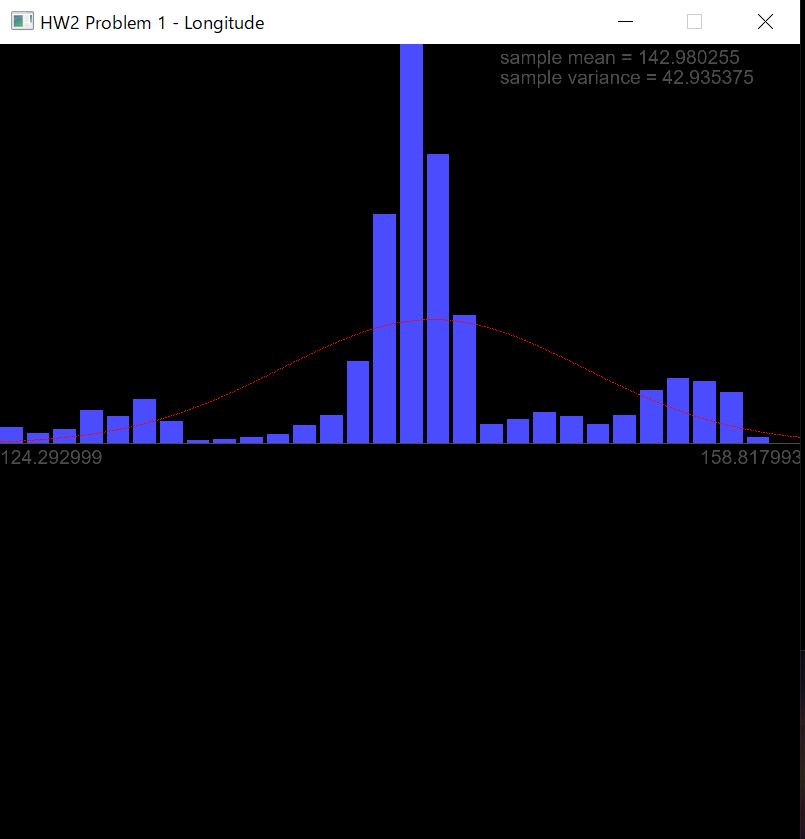
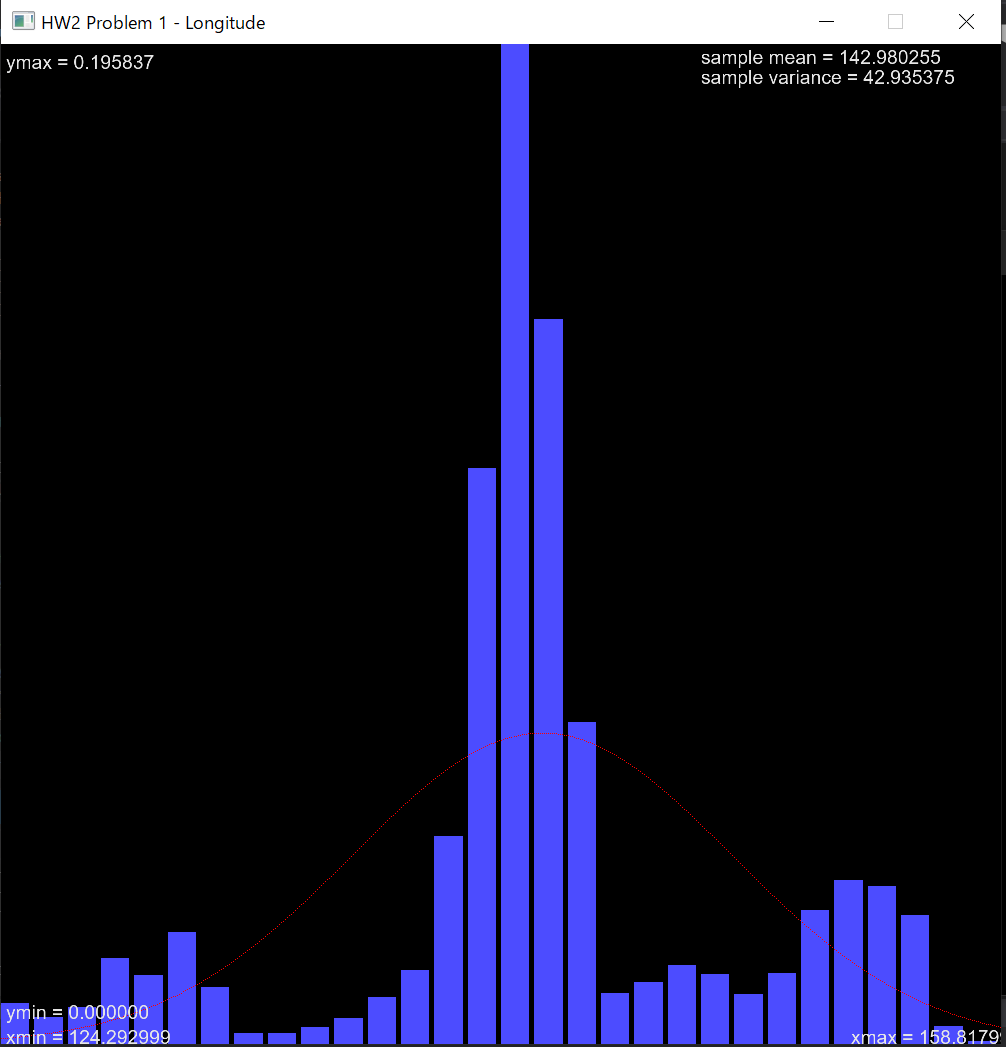
HW2 Problem 3 completed.

diff --git a/OpenGLVS/hw2_problem123.cpp b/OpenGLVS/hw2_problem123.cpp
@@ -239,7 +239,7 @@ float getBhattacharyya(vector<float> data1, vector<float> data2) {
 
 
 
-int drawHw2p1(vector<float> data, const char* title) {
+int drawHistGaussian(vector<float> data, const char* title) {
     GLFWwindow* window;
     int EXIT_STAUTS1 = glinit(window, WIDTH, HEIGHT, title);
     if (EXIT_STAUTS1 == EXIT_FAILURE) {
@@ -361,10 +361,10 @@ void getHistData(vector<float> data, int i, int j, int size,
 
 
     // define normalization range
-    float ax = -1.0f + i * 2.0f / (float)size;
-    float bx = -1.0f + (i + 1) * 2.0f / (float)size;
-    float ay = 1.0f - (j+1) * 2.0f / (float)size;
-    float by = 1.0f - j * 2.0f / (float)size;
+    float ax = -1.0f + j * 2.0f / (float)size;
+    float bx = -1.0f + (j + 1) * 2.0f / (float)size;
+    float ay = 1.0f - (i+1) * 2.0f / (float)size;
+    float by = 1.0f - i * 2.0f / (float)size;
 
     for (int i = 0; i < hist.size(); i++) {
         histBin bi = hist[i];
@@ -410,10 +410,10 @@ void getScatterData(vector<float> data1, vector<float> data2, int i, int j, int 
     ymax = *max_element(data2.begin(), data2.end());
 
     // define normalization range
-    float ax = -1.0f + i * 2.0f / (float)size;
-    float bx = -1.0f + (i + 1) * 2.0f / (float)size;
-    float ay = 1.0f - (j + 1) * 2.0f / (float)size;
-    float by = 1.0f - j * 2.0f / (float)size;
+    float ax = -1.0f + j * 2.0f / (float)size;
+    float bx = -1.0f + (j + 1) * 2.0f / (float)size;
+    float ay = 1.0f - (i + 1) * 2.0f / (float)size;
+    float by = 1.0f - i * 2.0f / (float)size;
     // cout << ax << "," << bx << "," << ay << "," << by << endl;
 
     int numPts = data1.size();
@@ -427,6 +427,61 @@ void getScatterData(vector<float> data1, vector<float> data2, int i, int j, int 
         scatData.push_back(0.0f);
     }
 }
+
+
+void getRegressionLine(vector<float> x, vector<float> y, int i, int j, int size,
+                                vector<float> &regLineData, float &c0, float &c1){
+    // get xmin, xmax, ymin, ymax
+    float xmin = *min_element(x.begin(), x.end());
+    float xmax = *max_element(x.begin(), x.end());
+    float ymin = *min_element(y.begin(), y.end());
+    float ymax = *max_element(y.begin(), y.end());
+
+    // define normalization range
+    float ax = -1.0f + j * 2.0f / (float)size;
+    float bx = -1.0f + (j + 1) * 2.0f / (float)size;
+    float ay = 1.0f - (i + 1) * 2.0f / (float)size;
+    float by = 1.0f - i * 2.0f / (float)size;
+
+    // get coefficient for c0 and c1 such that y = c0 + c1 * x
+    // Psudo code below.
+    // c1 = sum( (yi - meanY) * (xi - meanX)) / (xi - meanX)^2;
+    // c0 = meanY - c1 * meanX;
+
+    float meanX = computeMean(x);
+    float meanY = computeMean(y);
+
+    int numPts = x.size();
+
+    float numerator = 0;
+    float denominator = 0;
+    for (int i = 0; i < x.size(); i++) {
+        numerator = numerator + (y[i] - meanY) * (x[i] - meanX);
+        denominator = denominator + (x[i] - meanX) * (x[i] - meanX);
+    }
+    c1 = numerator / denominator;
+    c0 = meanY - c1 * meanX;
+
+    // now create the regressin line vertex data, basically 2 vertex point
+    float xminNorm = normalize(xmin, xmin, xmax, ax, bx);
+    float yminFitNorm = normalize(c0 + c1 * xmin, ymin, ymax, ay, by);
+    
+    float xmaxNorm = normalize(xmax, xmin, xmax, ax, bx);
+    float Yfitxmax = normalize(c0 + c1 * xmax, ymin, ymax, ay, by);
+
+    regLineData.push_back(xminNorm);
+    regLineData.push_back(yminFitNorm);
+    regLineData.push_back(0.0f);
+
+    regLineData.push_back(xmaxNorm);
+    regLineData.push_back(Yfitxmax);
+    regLineData.push_back(0.0f);
+
+    //cout << xminNorm << "," << yminFitNorm << endl;
+    //cout << xmaxNorm << "," << Yfitxmax << endl;
+
+}
+
 
 
 vector<float> getScatterGridData(int size) {
@@ -461,11 +516,10 @@ vector<float> getScatterGridData(int size) {
 
     }
     return gridData;
-     
 }
 
 
-int drawHw2p2(vector<vector<float>> alldata, const char* title) {
+int drawScatterMatrix(vector<vector<float>> alldata, const char* title, bool regressionFlag) {
     int size = alldata.size();
 
     GLFWwindow* window;
@@ -483,7 +537,8 @@ int drawHw2p2(vector<vector<float>> alldata, const char* title) {
     vector<float> gridData = getScatterGridData(size);
     vector<vector<float>> allHistData;
     vector<vector<float>> allScatData;
-    vector<float> allxmin, allxmax, allymin, allymax;
+    vector<vector<float>> allRegLineData;
+    vector<float> allxmin, allxmax, allymin, allymax, allc0, allc1;
 
     // looping through row and col of scatter matrix and poluate the plot data
     for (int i = 0; i < size; i++) {
@@ -500,6 +555,16 @@ int drawHw2p2(vector<vector<float>> alldata, const char* title) {
                 vector<float> scatData;
                 getScatterData(data1, data2, i, j, size, scatData, xmin, xmax, ymin, ymax);
                 allScatData.push_back(scatData);
+
+                if (regressionFlag) {
+                    vector<float> regLineData;
+                    float c0, c1;
+                    getRegressionLine(data1, data2, i, j, size, regLineData, c0, c1);
+                    allRegLineData.push_back(regLineData);
+                    allc0.push_back(c0);
+                    allc1.push_back(c1);
+                    //cout << c0 << ", " << c1 << endl;
+                }
             }
 
             // I don't use these for text render xmin, xmax, ymin, ymax at the moment, because it will look ugly...
@@ -535,6 +600,17 @@ int drawHw2p2(vector<vector<float>> alldata, const char* title) {
         setupVAOVBO(scatVAOs[i], scatVBOs[i], allScatData[i]);
     }
 
+    // set up for regression line if flag is true
+    int numRegData = allRegLineData.size();
+    vector<GLuint> regVBOs(numRegData), regVAOs(numRegData);
+    if (regressionFlag) {
+        glGenVertexArrays(numRegData, &regVAOs[0]);
+        glGenBuffers(numRegData, &regVBOs[0]);
+        for (int i = 0; i < allRegLineData.size(); i++) {
+            setupVAOVBO(regVAOs[i], regVBOs[i], allRegLineData[i]);
+        }
+    }
+
     setupVAOVBO(gridVAO, gridVBO, gridData);
 
     // unbind all
@@ -565,6 +641,15 @@ int drawHw2p2(vector<vector<float>> alldata, const char* title) {
             glDrawArrays(GL_POINTS, 0, allScatData[i].size() / 3);
         }
 
+        //draw regression line
+        if (regressionFlag) {
+            for (int i = 0; i < allRegLineData.size(); i++) {
+                shaderProgram.setColor("userDefinedColor", 1.0f, 0.0f, 0.0f, 1.0f);
+                glBindVertexArray(regVAOs[i]);
+                glDrawArrays(GL_LINES, 0, allRegLineData[i].size() / 3);
+            }
+        }
+
         // draw gridData
         shaderProgram.setColor("userDefinedColor", 0.3f, 0.3f, 0.3f, 1.0f);
         glBindVertexArray(gridVAO);
@@ -574,6 +659,7 @@ int drawHw2p2(vector<vector<float>> alldata, const char* title) {
         glBindVertexArray(0);
 
         // render text
+        int index = 0; // index for looping allc0 and allc1
         for (int i = 0; i < size; i++) {
             vector<float> data1 = alldata[i];
             for (int j = 0; j < size; j++) {   
@@ -586,10 +672,10 @@ int drawHw2p2(vector<vector<float>> alldata, const char* title) {
                 float ay = 0.0f;
                 float by = HEIGHT;
 
-                float xmin = -1.0f + i * 2.0f / (float)size;
-                float xmax = -1.0f + (i + 1) * 2.0f / (float)size;
-                float ymin = 1.0f - (j + 1) * 2.0f / (float)size;
-                float ymax = 1.0f - j * 2.0f / (float)size;
+                float xmin = -1.0f + j * 2.0f / (float)size;
+                float xmax = -1.0f + (j + 1) * 2.0f / (float)size;
+                float ymin = 1.0f - (i + 1) * 2.0f / (float)size;
+                float ymax = 1.0f - i * 2.0f / (float)size;
 
                 // obtain the location within the cell of matrix
                 float xloc1 = normalize(xmax - 0.35f, -1.0f, 1.0f, ax, bx);
@@ -597,17 +683,54 @@ int drawHw2p2(vector<vector<float>> alldata, const char* title) {
                 float xloc2 = normalize(xmax - 0.35f, -1.0f, 1.0f, ax, bx);
                 float yloc2 = normalize(ymax - 0.05f, -1.0f, 1.0f, ay, by);
 
+                // for the plot title
+                float xloc_title = normalize(xmin, -1.0f, 1.0f, ax, bx);
+                float yloc_title = normalize(ymax - 0.025f, -1.0f, 1.0f, ay, by);
+                string data1title;
+                string data2title;
+                if (i == 0) {
+                    data1title = "latitude";
+                }
+                else if (i == 1) {
+                    data1title = "longitude";
+                }
+                else {
+                    data1title = "depth";
+                }
+
+                if (j == 0) {
+                    data2title = "latitude";
+                }
+                else if (j == 1) {
+                    data2title = "longitude";
+                }
+                else {
+                    data2title = "depth";
+                }
+
                 if (i == j) {
                     float mean = computeMean(data1);
                     float variance = computeVariance(data1);
                     textRenderProgram.RenderText("mean = " + to_string(mean), xloc1, yloc1, 0.3f, glm::vec3(0.9f, 0.9f, 0.9f));
                     textRenderProgram.RenderText("variance = " + to_string(variance), xloc2, yloc2, 0.3f, glm::vec3(0.9f, 0.9f, 0.9f));
+                    textRenderProgram.RenderText(data1title, xloc_title, yloc_title, 0.3f, glm::vec3(0.0f, 0.8f, 0.0f));
+
                 }
                 else {
                     float covariance = computeCovariance(data1, data2);
                     float correlation = computeCorrelation(data1, data2);
                     textRenderProgram.RenderText("correlation = " + to_string(correlation), xloc1, yloc1, 0.3f, glm::vec3(0.9f, 0.9f, 0.9f));
                     textRenderProgram.RenderText("covariance = " + to_string(covariance), xloc2, yloc2, 0.3f, glm::vec3(0.9f, 0.9f, 0.9f));
+                    textRenderProgram.RenderText(data1title + " vs " + data2title, xloc_title, yloc_title, 0.3f, glm::vec3(0.0f, 0.8f, 0.0f));
+
+
+                    if (regressionFlag) {
+                        float xloc3 = normalize(xmax - 0.45f, -1.0f, 1.0f, ax, bx);
+                        float yloc3 = normalize(ymax - 0.085f, -1.0f, 1.0f, ay, by);
+                        string eqn = "y = " + to_string(allc1[index]) + " * x" + " + " + to_string(allc0[index]);
+                        textRenderProgram.RenderText(eqn, xloc3, yloc3, 0.3f, glm::vec3(1.0f, 0.0f, 0.0f));
+                        index++;
+                    }
                 }
             }
         }
@@ -622,6 +745,11 @@ int drawHw2p2(vector<vector<float>> alldata, const char* title) {
     glDeleteBuffers(numScatData, &scatVBOs[0]);
     glDeleteVertexArrays(1, &gridVAO);
     glDeleteBuffers(1, &gridVBO);
+
+    if (regressionFlag) {
+        glDeleteVertexArrays(numRegData, &scatVAOs[0]);
+        glDeleteBuffers(numRegData, &scatVBOs[0]);
+    }
 
     // Terminate GLFW, clearing any resources allocated by GLFW.
     glfwTerminate();
@@ -680,11 +808,11 @@ void hw2_problem123() {
 
     // draw two histograms with gaussian distribution
     cout << "Visualizing latitude data ..." << endl;
-    drawHw2p1(latitude, "HW2 Problem 1 - Latitude");
+    drawHistGaussian(latitude, "HW2 Problem 1 - Latitude");
     cout << "Visualizing longitude data ..." << endl;
-    drawHw2p1(longitude, "HW2 Problem 1 - Longitude");
-    //cout << "Visualizing depth data ..." << endl;
-    //drawHw2p1(depth, "HW2 Problem 1 - Depth");
+    drawHistGaussian(longitude, "HW2 Problem 1 - Longitude");
+    cout << "Visualizing depth data ..." << endl;
+    drawHistGaussian(depth, "HW2 Problem 1 - Depth");
 
 
     cout << "Compute Bhatacharrya Coefficient ..." << endl;
@@ -701,9 +829,9 @@ void hw2_problem123() {
     //cout << "Press Enter to start HW2 problem 2 ..." << endl;
     //cin.get();
     //cout << endl << endl;
-    vector<vector<float>> alldata = { latitude, longitude, depth };
+    vector<vector<float>> alldata = { latitude, longitude, depth};
     cout << "Visualizing Scatter Matrix of latitude, longitude, depth ..." << endl;
-    drawHw2p2(alldata, "HW2 Problem 2 - Scatter Matrix");
+    drawScatterMatrix(alldata, "HW2 Problem 2 - Scatter Matrix", false);
 
     // following is computationally repetitive just for printing into the console ... 
     cout << endl << "printing covariance matrix ..." << endl;
@@ -716,8 +844,9 @@ void hw2_problem123() {
         }
         cout << endl;
     }
+    cout << endl << endl;
 
-    cout << endl << "printing correlation matrix ..." << endl;
+    cout << "printing correlation matrix ..." << endl;
     for (int i = 0; i < alldata.size(); i++) {
         vector<float> data1 = alldata[i];
         for (int j = 0; j < alldata.size(); j++) {
@@ -728,9 +857,12 @@ void hw2_problem123() {
         cout << endl;
     }
 
-
+    cout << endl << endl;
     // -----------------------------------------------------------------------------------------
     // HW2 Problem 3
     // -----------------------------------------------------------------------------------------
-
+    cout << "Draw Regression Line on the plot ..." << endl;
+    drawScatterMatrix(alldata, "HW2 Problem 2 - Scatter Matrix with Regression Lines", true);
+    cout << "HW Problem 1 & 2 & 3 ends ..." << endl;
+    cout << endl << endl;
 }

diff --git a/DiscussionAndResult/DiscussionAndResult.md b/DiscussionAndResult/DiscussionAndResult.md
@@ -7,23 +7,51 @@
 **Problem 1**
 Overlay 1D gaussian distribution on the histogram for the two datasets latitude and longitude are shown below.
 We set the number of bin to **30** and used the entire data samples **14092** points. The data is taken from 2001-01-02 to 2018-11-27 for 18 years.
-![](hw2_problem1_latitude.png)
-![](hw2_problem1_longitude.png)
+![ScreenShot](./hw2_problem1_latitude.png)
+![ScreenShot](./hw2_problem1_longitude.png)
 For the result for dataset latitude, the histogram is following the gaussian shape and the mean value of latitude is approximately the highest frequency of the histogram and is **37.41 degree**.
 Similarly for the longitude dataset, the mean value (approximately highest frequency) is **142.98 degree**.
 For the location (latitude, longitude) = (37.41, 142.98) is shown below from online [https://getlatlong.net/](https://getlatlong.net/).
-![](hw2_problem1_location.png)
+![ScreenShot](./hw2_problem1_location.png)
 This shows that the location near the north east of tokyo has higher probability of earthquake to occur based on the 18 years of data.
 
 Computing the Bhatacharrya Coefficient, we got **0.915415**. This value is close to 1, indicating that the two datasets of latitude and longitude is similar in shape.
+
+In case, I will also show the result of 3rd variable as following.
+![ScreenShot](./hw2_problem1_depth.png)
+
 
 **Problem 2**
 
 Continuing from the problem 1, I defind the 3 variables as:
 
-- Latitude
-- Longitude
-- Depth
+- Latitude (variable 1)
+- Longitude (variable 2)
+- Depth (variable 3)
+
+Input dataset is attached in the same project directory OpenGLVS.
+The scatter matrix from the 3 variables are shown below. Note that my program can input any number of variables, so 
+it can be n by n scatter matrix.
+![ScreenShot](./hw2_problem2_scatterMatrix.png)
+As you can see that the scatter plot between the data 1 (latitude) and data 2 (longitude) are showng some strength
+on the straight line with a positive direction. This is also shown in the correlation value
+between data 1 and data 2, showing high value of correlation.
+
+On the other hand, as for the case for the data 1/data 2 (latitude/longitude) and data 3 (depth) are showing very weak
+strength of straightline as also can be shown in the low correlation value.
+
+This concludes that latitude and longitude of earthquake that occurs closely related (which is obvious since
+ both information represents the geographical information), but the there seems no relation between the 
+geographical informatoion (latitude or longitude) and the depth.
 
 
+**Problem 3**
+Using the Least-Squares Regression Lines method (1st order), the regression is layed on the scatter matrix as shown below.
+![ScreenShot](./hw2_problem3_scatterMatrix_Regression.png)
 
+Looking at the slope of plot 1-2, plot 1-3, and plot 2-3, the slope value in plot 1-2 (latitude vs longitude) shows
+stronger linearity since the value is closer to 1 while slope values in plot 1-3 is very low (approximiately flat).
+plot 2-3 (longitude vs depth) shows slope of -1.27, which could be caused by the very different scale of each variable
+ that causes the unstable slope value. The scale of depth is [0, 683.359] while the scale of longitude is [124.29, 158.82].
+ The scale of depth (y axis) is much larger than the longitude (x axis), so the slope fluctuate a lot in the vertical direction, 
+causing the slope to be deviate from 0.
